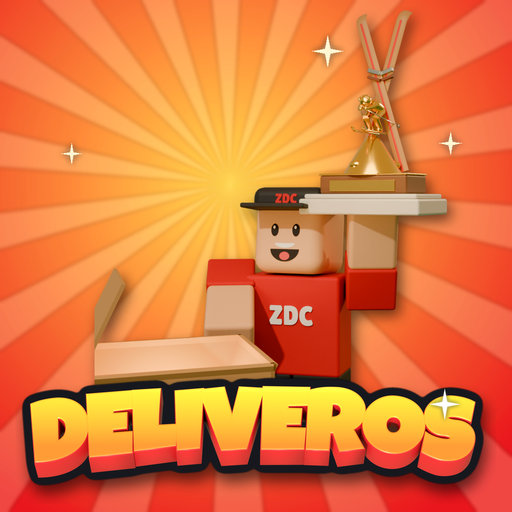
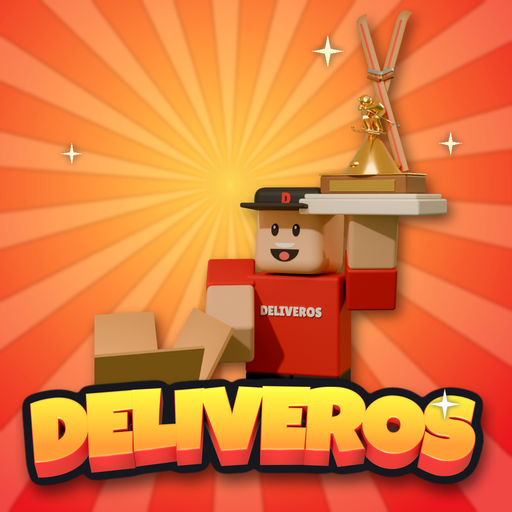
Deliveros 8.9: the store art again, with the renamed van, warehouse and crew
All four thumbnails and both icons rendered again from the re-exported models:
the Sprinter's DELIVEROS livery, DELIVEROS on the Logistics Center's gable, the
crew's DELIVEROS shirts, D caps and boxes. icon.py: the open box lower and to the
left, its flaps (which open outward since the kit's fix) clear of the courier's
face. NAVOD.md: the crew's clothes are Deliveros'.

Claude-Session: https://claude.ai/code/session_013GeDrdWqoqyh46TjFFFV2F

diff --git a/zombie-delivery/design/store-art/icon.py b/zombie-delivery/design/store-art/icon.py
@@ -24,7 +24,7 @@ for ob in tcol.all_objects:
             p.inputs["Base Color"].default_value = zdk.lin((255, 214, 110))
             p.inputs["Roughness"].default_value = 0.2
 zdk.glow((h.x - 0.4, h.y - 2.2, h.z + 2.0), (255, 226, 160), energy=500, size=1.2)
-zdk.moving_box((-1.0, -3.0, 0.9), (2.8, 2.6, 2.2), rot_z=18, open_top=True)
-zdk.glow((-1.0, -3.0, 2.5), (255, 222, 150), energy=500, size=0.6)
+zdk.moving_box((-2.4, -2.4, 0.0), (2.8, 2.6, 2.2), rot_z=24, open_top=True)  # (low, left: its flaps clear of the face)
+zdk.glow((-2.4, -2.4, 1.6), (255, 222, 150), energy=500, size=0.6)
 zdk.camera((1.6, -15.5, 5.6), (2.0, 0, 5.9), lens=54)
 zdk.render(o["out"])

diff --git a/zombie-delivery/design/store-art/NAVOD.md b/zombie-delivery/design/store-art/NAVOD.md
@@ -48,7 +48,7 @@ python post.py icon out/icon_raw.png ../../art/store/icon.png
 python post.py icon-box out/iconbox_raw.png ../../art/store/icon-box.png
 ```
 - `zdk.py`: společná sada: obloha, louka, hory, smrky, stěhovací krabice, kostičková postava (Roblox styl) v oblečení
-  ZDC a načítání modelů hry z `.blend` souborů (dodávka, chata, sklad, nábytek a sběratelské kousky).
+  Deliveros a načítání modelů hry z `.blend` souborů (dodávka, chata, sklad, nábytek a sběratelské kousky).
 - `logo.py`: 3D nápis DELIVEROS (vysunutá písmena, zlatá tvář, červený bok, mírný oblouk), průhledné pozadí.
 - `t0_key.py`, `t1_move.py`, `t2_find.py`, `t3_shop.py`, `icon.py`, `icon_box.py`: scény. Každá k obrázku zapíše i
   `.json` s místy kousků na obrázku (podle nich `post.py` dá štítky přesně nad ně); `-- --marks-only` jen spočítá
